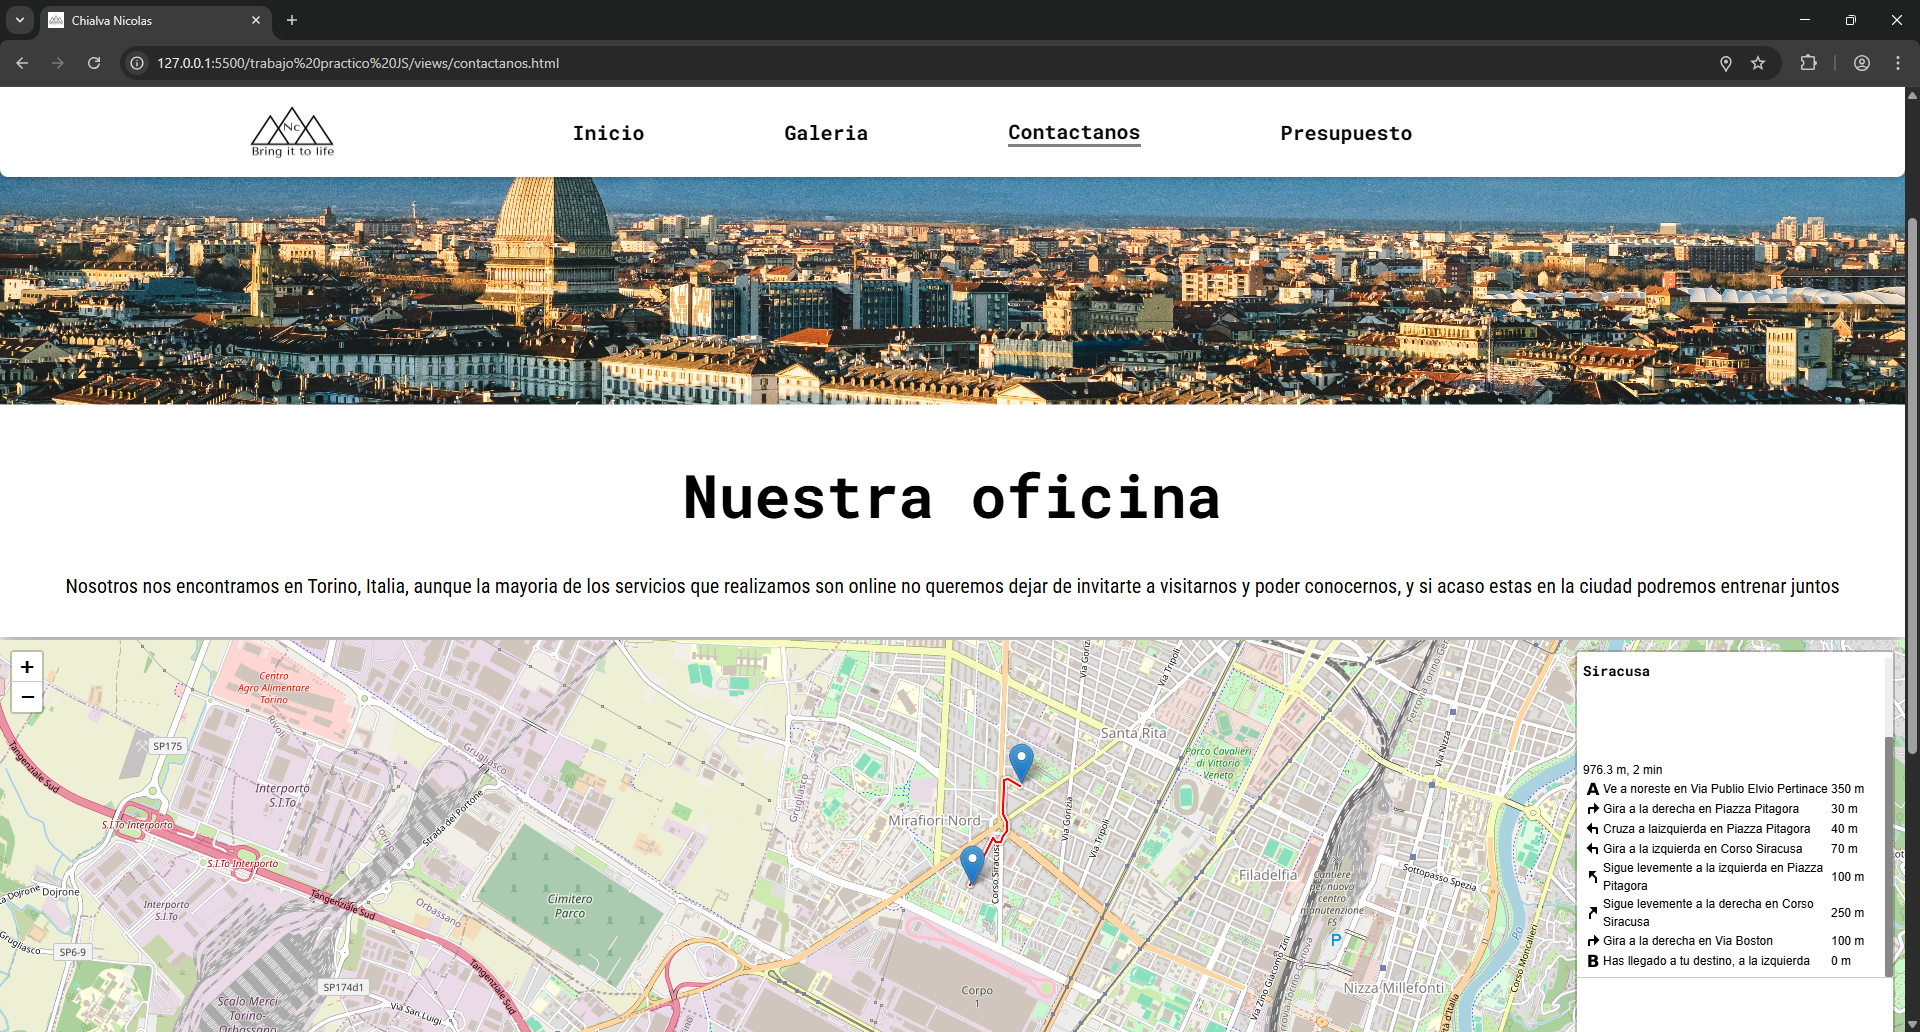
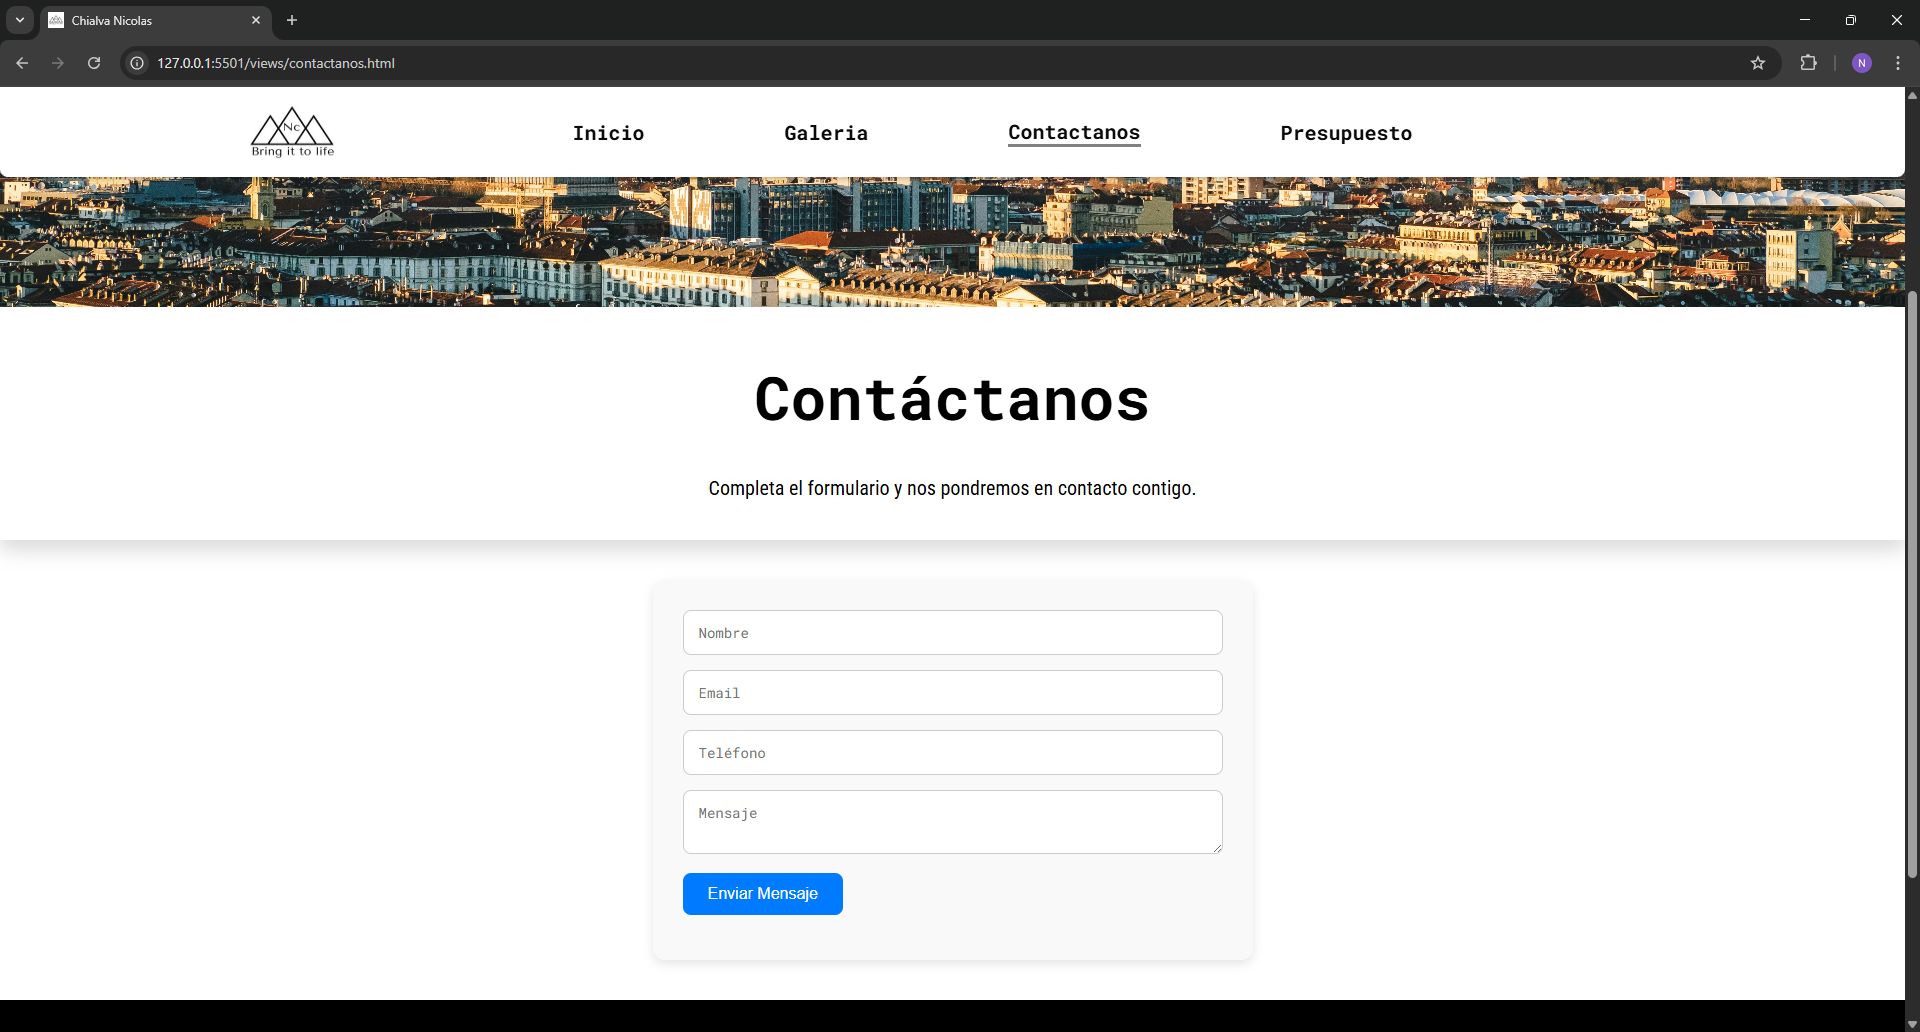
Agregar imágenes actualizadas para el README

diff --git a/README.md b/README.md
@@ -139,10 +139,10 @@ Tecnologia	Descrizione
 
 🚏 Express.js	Routing e API REST
 
-🗄 MongoDB	Database per salvataggio dei dati
+🗄 MongoDB       Database per salvataggio dei dati
 
-💡 Lightbox	Visualizzazione dinamica immagini
+💡 Lightbox       Visualizzazione dinamica delle immagini
 
-📄 PDF Download	Dettagli prodotti scaricabili
+📄 PDF Download   Dettagli prodotti scaricabili
 
-📦 Bootstrap	Supporto al layout responsive
+📦 Bootstrap      Supporto al layout responsive
